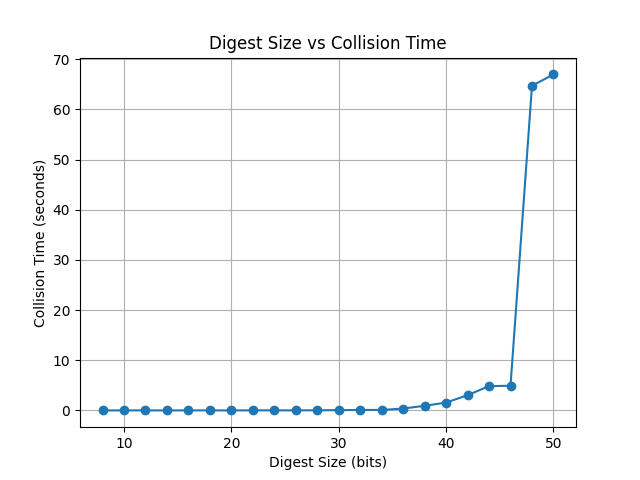
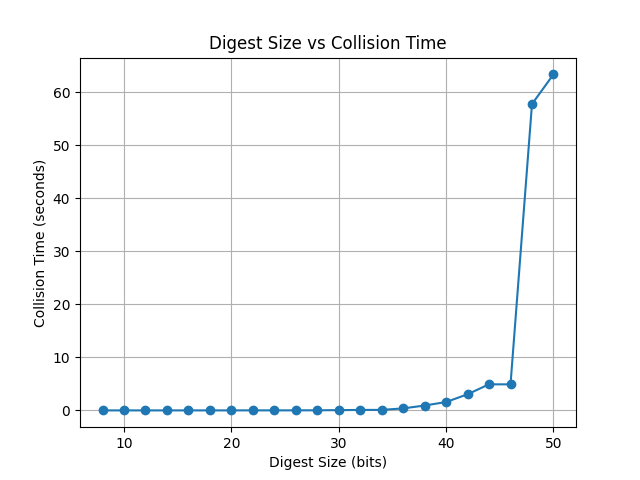
Minor tweaks to task1.

diff --git a/Task1/task1.py b/Task1/task1.py
@@ -141,7 +141,7 @@ def task_1c():
     plt.ylabel("Collision Time (seconds)")
     plt.title("Digest Size vs Collision Time")
     plt.grid()
-    plt.savefig("collision_time.png")
+    plt.savefig("Task1/collision_time.png")
 
     # graph digest size vs number of inputs
     plt.figure()
@@ -150,7 +150,7 @@ def task_1c():
     plt.ylabel("Number of Inputs")
     plt.title("Digest Size vs Number of Inputs")
     plt.grid()
-    plt.savefig("collision_inputs.png")
+    plt.savefig("Task1/collision_inputs.png")
 
     plt.show()
 
